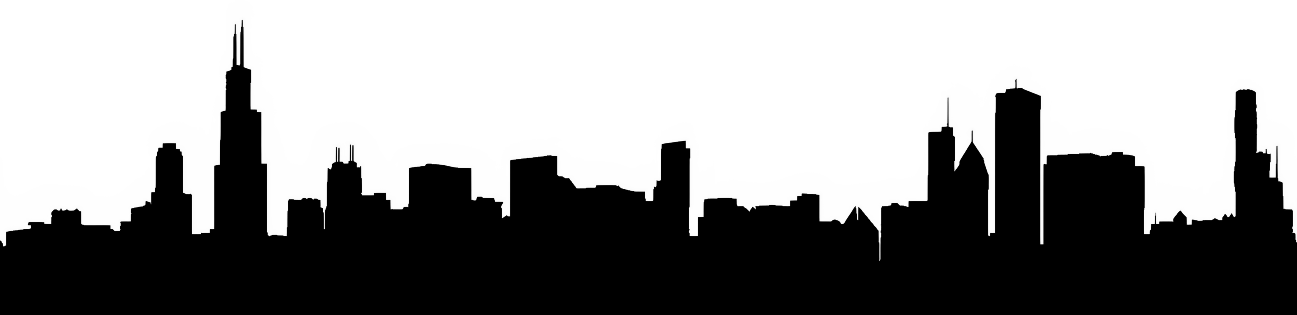
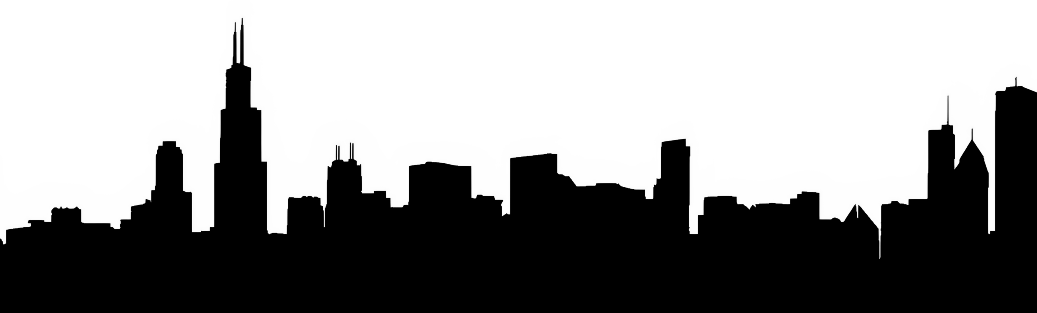
version 1 complete

Changed region(s): [[0.3086, 0.2588, 1.0, 0.7764], [0.0, 0.0575, 0.3086, 0.7476]]

diff --git a/src/components/Location.jsx b/src/components/Location.jsx
@@ -21,15 +21,15 @@ function Location() {
     };
 
     return (
-        <div className="header">
-            <p className="Time">
-                <img src="/img/logo.jpg" alt="" align="left" />
+        <div className="App-header">
+            <img src={process.env.PUBLIC_URL+'/img/logo.jpg'} alt="logo" align="left"/>
+            <div style={{ textAlign: 'right', padding: '30px'}}>
                 {formatTime(time)}
-            </p>
-            <div className="body" style={{ display: 'flex', alignItems: 'center', height: '100vh' }}>
+            </div>
+            <div className="body" >
                 <p style={{ margin: '0 auto', }}>I am in Chicago, IL <br />
                     <div style={{ position: "fixed", bottom: 0, left: 0, right: 0 }}>
-                        <img src="/img/skyline.png" alt="" style={{ display: "block", margin: "0 auto", height: "55vh", width:"100vw"}} />
+                        <img src={process.env.PUBLIC_URL+'/img/skyline.png'} alt="" style={{ display: "block", margin: "0 auto", height: "35vh", width:"100vw"}} />
                     </div>
                 </p>
             </div>

diff --git a/src/components/SRAMission.jsx b/src/components/SRAMission.jsx
@@ -20,14 +20,13 @@ function SRAMission() {
         return `${formattedHours}:${formattedMinutes} ${ampm}`;
     };
     return (
-        <div className="header">
-
-            <img src="/img/logo.jpg" alt="" align="left" />
-            <p className="Time">
+        <div className="App-header">
+           <img src={process.env.PUBLIC_URL+'/img/logo.jpg'} alt="logo" align="left"/>
+            <div style={{ textAlign: 'right', padding: '30px'}}>
                 {formatTime(time)}
-            </p>
-            <div className="body" style={{ display: 'flex', alignItems: 'center', height: '100vh' }}>
-                <p style={{ margin: '0 auto' }}>The Shirley Ryan Abilitylab is a rehabilitation hospital <br /> where I focus on brain recovery.</p>
+            </div>
+            <div className="body">
+                <p>The Shirley Ryan Abilitylab is a rehabilitation hospital <br /> where I focus on brain recovery.</p>
             </div>
         </div>
     );

diff --git a/src/components/SRALabImg.jsx b/src/components/SRALabImg.jsx
@@ -21,13 +21,13 @@ function SRALabImg() {
     };
 
     return (
-        <div className="header">
-            <p className="Time">
-                <img src="/img/logo.jpg" alt="" align="left" />
-                {formatTime(time)}
-            </p>
+        <div className="App-header">
+        <img src={process.env.PUBLIC_URL+'/img/logo.jpg'} alt="logo" align="left"/>
+        <div style={{ textAlign: 'right', padding: '30px'}}>
+            {formatTime(time)}
+        </div>
             <div>
-                <img src="/img/entrance1.jpg" alt="entrance" style={{ height: "100vh", width: "100vw", align: "center" }} />
+                <img src={process.env.PUBLIC_URL+'/img/entrance1.jpg'} alt="entrance" style={{height: "75vh", width: "100vw", align: "center" }} />
             </div>
 
         </div >

diff --git a/src/components/DayDate.jsx b/src/components/DayDate.jsx
@@ -43,12 +43,12 @@ function CurrentTime() {
     };
 
     return (
-        <div className="header">
-            <img src="/img/logo.jpg" alt="" align="left" />
-            <p className="Time">
+        <div className="App-header">
+            <img src={process.env.PUBLIC_URL+'/img/logo.jpg'} alt="logo" align="left"/>
+            <div style={{ textAlign: 'right', padding: '30px'}}>
                 {formatTime(time)}
-            </p>
-            <div className="body" style={{ display: 'flex', alignItems: 'center', height: '100vh' }}>
+            </div>
+            <div className="body">
                 <p style={{ margin: '0 auto', }}>Today's date is {getCurrentDate()}<br /><br /> It is {dayOfWeek}</p>
             </div>
         </div>

diff --git a/src/components/App.css b/src/components/App.css
@@ -1,33 +1,27 @@
 .App {
   font-family: Arial, Helvetica, sans-serif;
-  margin-top: 40px;
-  margin-bottom: 40px;
+  margin-top: 10px;
+  margin-bottom: 10px;
 }
 
 .App-header {
   background-color: white;
-  /* #0ED6BD */
-  min-height: 1vh;
-  display: flex;
-  flex: auto;
-  font-size: calc(10px + 2vmin);
-  padding: 10px;
+  font-size: 70px;
+  height: 10vh;
 }
 
 .body {
   background: radial-gradient(circle at center, #ffffff, #E3735E);
   font-size: 90px;
+  height: 80vh;
+  width: 100vw;
+  display: flex;
   text-align: center;
+  align-items: center;
 }
 
 .Location {
   top: 50%;
   left: 50%;
   transform: translate(-50%, -50%);
-}
-
-.Time {
-  background-color: #ffffff;
-  font-size: 90px;
-  text-align: right;
 }

diff --git a/public/index.html b/public/index.html
@@ -6,8 +6,8 @@
     <meta name="viewport" content="width=device-width, initial-scale=1" />
     <meta name="theme-color" content="#000000" />
     <meta
-      name="description"
-      content="Web site created using create-react-app"
+      name="TV Display"
+      content="Current info for patients"
     />
     <link rel="apple-touch-icon" href="%PUBLIC_URL%/logo192.png" />
     <!--
@@ -24,7 +24,7 @@
       work correctly both with client-side routing and a non-root public URL.
       Learn how to configure a non-root public URL by running `npm run build`.
     -->
-    <title>React App</title>
+    <title>TV Display</title>
   </head>
   <body>
     <noscript>You need to enable JavaScript to run this app.</noscript>

diff --git a/src/App.js b/src/App.js
@@ -16,7 +16,7 @@ function App() {
   useEffect(() => {
     const interval = setInterval(() => {
       setPageIndex((pageIndex + 1) % pages.length);
-    }, 6000);
+    }, 7000);
 
     return () => clearInterval(interval);
   }, [pageIndex]);
